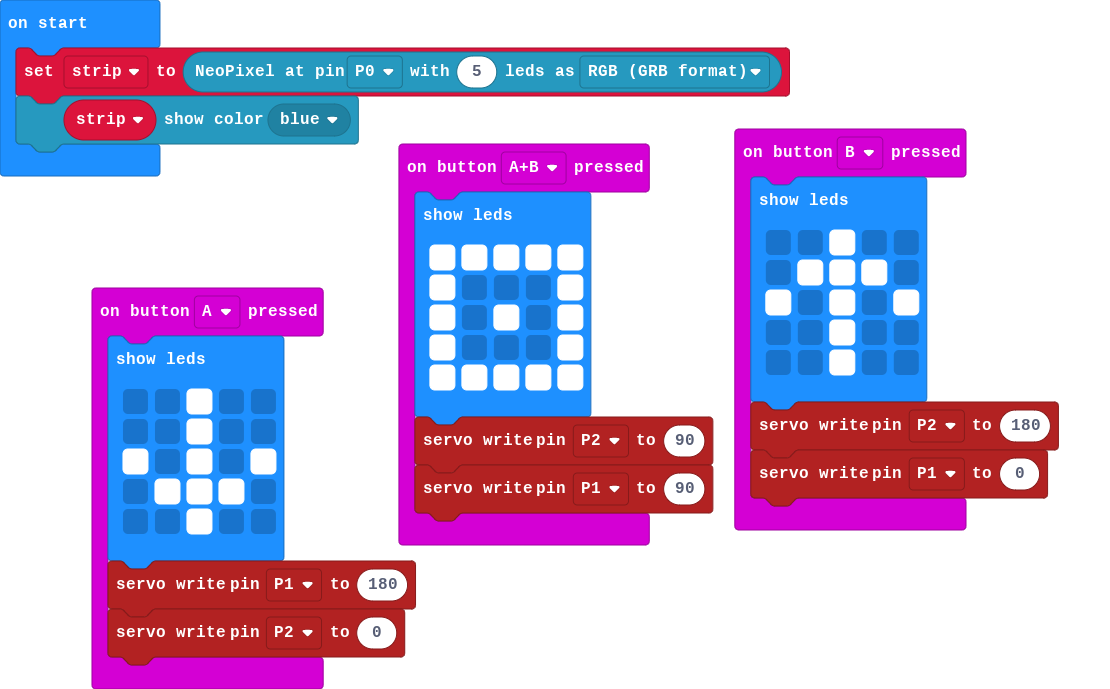
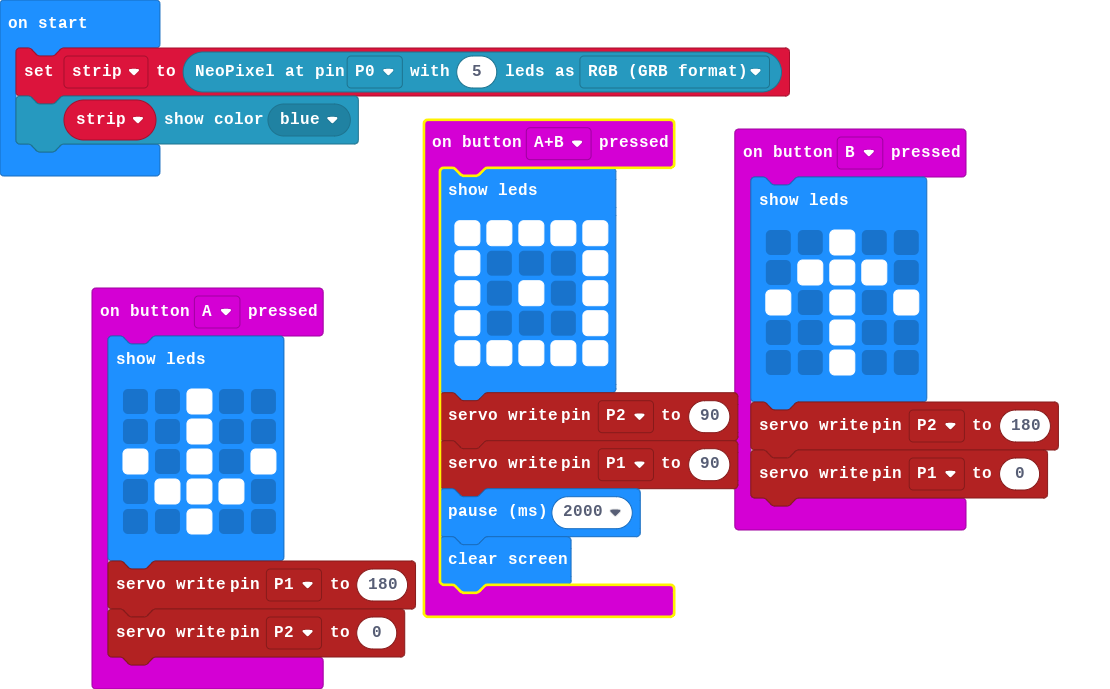
just another update :)

Changed region(s): [[0.3369, 0.1524, 0.6739, 0.9144]]

diff --git a/main.ts b/main.ts
@@ -19,6 +19,8 @@ input.onButtonPressed(Button.AB, function () {
         `)
     pins.servoWritePin(AnalogPin.P2, 90)
     pins.servoWritePin(AnalogPin.P1, 90)
+    basic.pause(2000)
+    basic.clearScreen()
 })
 input.onButtonPressed(Button.B, function () {
     basic.showLeds(`
